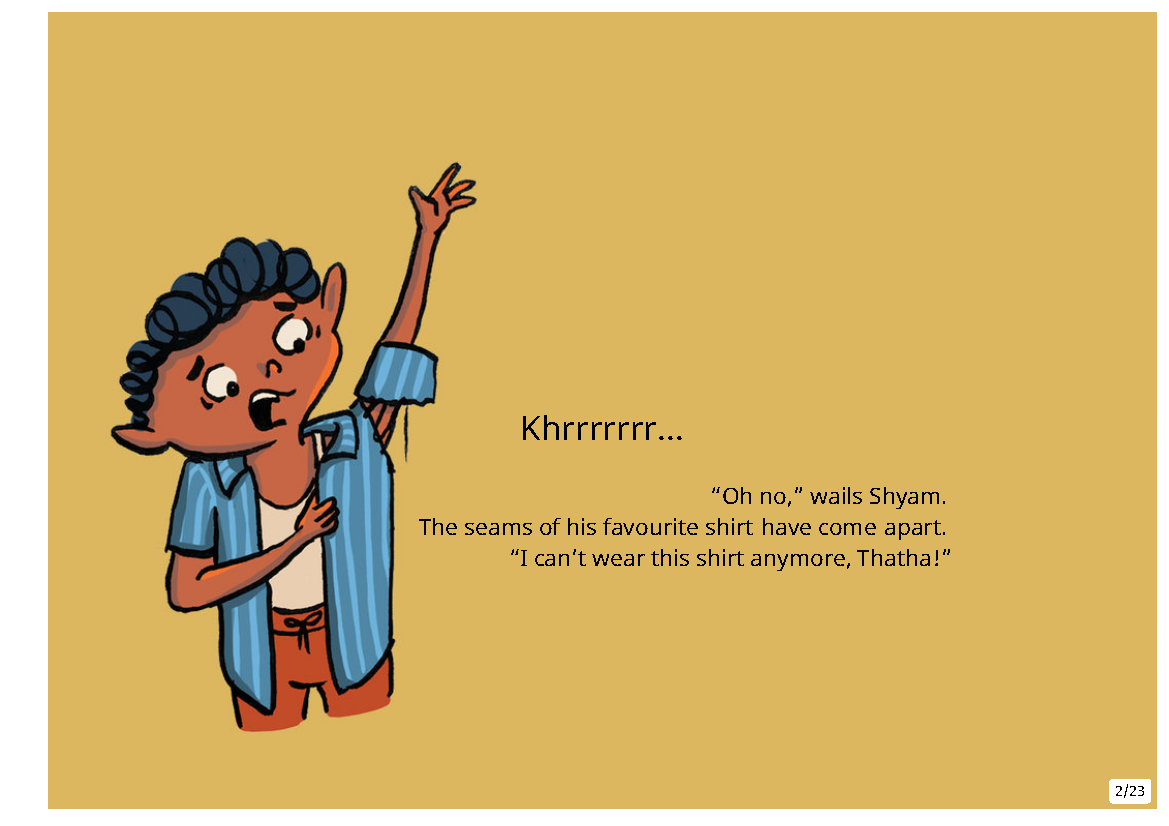
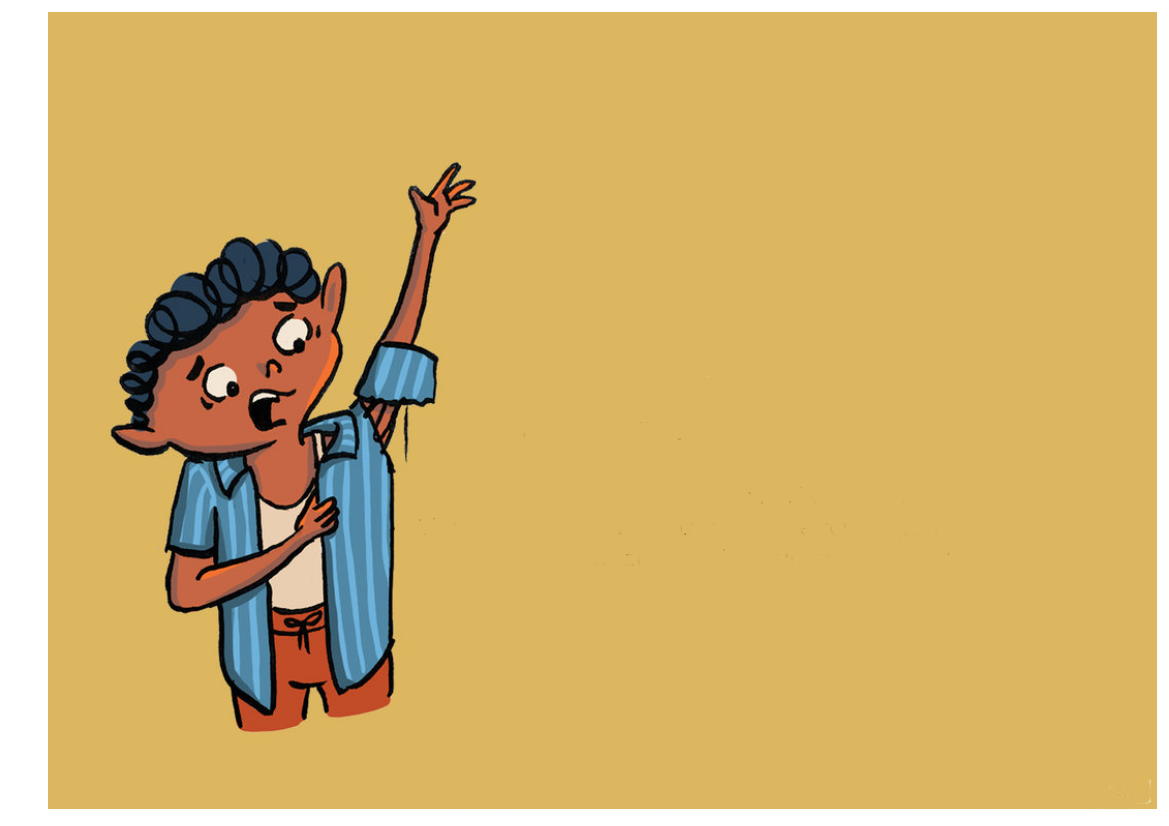
Fetch function for individual page

diff --git a/js-stitch-in-time-front/src/index.js b/js-stitch-in-time-front/src/index.js
@@ -1,64 +1,63 @@
+// sets user for session
 let currentUser = "";
 
+//functions to populate story text on page
 function topDivText(text) {
   document.querySelector("#top-caption").innerHTML = `<p>${text}</p>`;
 };
 
+function bottomDivText(text) {
+  document.querySelector("#bottom-caption").innerHTML = `<p>${text}</p>`;
+};
+
+
 document.addEventListener('DOMContentLoaded', (event) => {
+  const containerTag = document.querySelector('#main-container')
+  const divTag = document.createElement("DIV");
+  let imgTag = document.querySelector('.center-fit')
+  containerTag.appendChild(divTag)
+  divTag.className = 'greeting'
+  divTag.innerHTML = `<p>Welcome</p>
+  <input type="text">Hi! What's your name?</input>
+  <input id="start-btn" type="button" value="Let's Read!"></input>`
 
-  PageAdapter.getAll()
-    .then((pages) => {
-      pages.forEach((pageInfo) => {
-        debugger
-        const newPage = new Page(pageInfo);
+  document.querySelector('#start-btn').addEventListener('click', (e) => {
+    event.preventDefault();
+    if (e.target.previousElementSibling.value != "") {
+      // set username = value
+      fetch('http://localhost:3000/users', {
+        method: "POST",
+        headers: {
+          "Content-Type": "application/json",
+          Accept: "application/json"
+        },
+        body: JSON.stringify({
+          "name": `${e.target.previousElementSibling.value}`,
+          "progress": 0
+        })
+      }).then((response) => {
+        return response.json();
+      }).then((user) => {
+        currentUser = user;
+        document.querySelector('.greeting').remove();
+
+        PageAdapter.getPage(11)
+          .then((pageInfo) => {
+            let currentPage = new Page(pageInfo);
+            document.querySelector('.center-fit').src = currentPage.imageUrl;
+            document.querySelector('.center-fit').dataset.id = `${currentPage.id}`
+            setTimeout(function() {topDivText(currentPage.topText)}, 2000);
+            setTimeout(function() {bottomDivText(currentPage.bottomText)}, 4000);
+          })
+
+        let nxtbtn = document.createElement('INPUT');
+        nxtbtn.className = "next-button";
+        nxtbtn.src = "./images/recycle-btn.png"
+        nxtbtn.type = "image";
+        document.querySelector('#main-container').appendChild(nxtbtn);
       })
-
-    });
-
-
-  // const containerTag = document.querySelector('#main-container')
-  // const divTag = document.createElement("DIV");
-  // let imgTag = document.querySelector('.center-fit')
-  // containerTag.appendChild(divTag)
-  // divTag.className = 'greeting'
-  // divTag.innerHTML = `<p>Welcome</p>
-  // <input type="text">Hi! What's your name?</input>
-  // <input id="start-btn" type="button" value="Let's Read!"></input>`
-  //
-  // document.querySelector('#start-btn').addEventListener('click', (e) => {
-  //   event.preventDefault();
-  //   if (e.target.previousElementSibling.value != "") {
-  //     // set username = value
-  //     imgTag.src = "./images/a-stitch-in-time_2.png"
-  //     fetch('http://localhost:3000/users', {
-  //       method: "POST",
-  //       headers: {
-  //         "Content-Type": "application/json",
-  //         Accept: "application/json"
-  //       },
-  //       body: JSON.stringify({
-  //         "name": `${e.target.previousElementSibling.value}`,
-  //         "progress": 0
-  //       })
-  //     }).then((response) => {
-  //       return response.json();
-  //     }).then((user) => {
-  //       currentUser = user;
-  //       document.querySelector('.greeting').remove();
-  //       window.setTimeout(topDivText("Khrrrrrr....."), 1000 );
-  //       // let topCaption = document.querySelector("#top-caption");
-  //       let bottomCaption = document.querySelector("#bottom-caption");
-  //
-  //       // topCaption.innerHTML = `<p>Khrrrrrr...</p>`;
-  //       bottomCaption.innerHTML = `<p>"Oh no," wails Shyam. The seams of his favorite shirt have come apart</p>`;
-  //       let nxtbtn = document.createElement('INPUT');
-  //       nxtbtn.className = "next-button";
-  //       nxtbtn.src = "./images/recycle-btn.png"
-  //       nxtbtn.type = "image";
-  //       document.querySelector('#main-container').appendChild(nxtbtn);
-  //     })
-  //   }
-  // })
+    }
+  })
 
 
 }) // end of DOMContentLoaded

diff --git a/js-stitch-in-time-front/index.html b/js-stitch-in-time-front/index.html
@@ -10,7 +10,7 @@
   <body>
     <div id="main-wrapper">
       <div id="main-container" class="imgbox">
-          <img class="center-fit" src='./images/cover.png'>
+          <img class="center-fit" src='./images/cover.png' data-id="1">
           <div id="top-caption"></div>
         <div id="bottom-caption"></div>
       </div>

diff --git a/js-stitch-in-time-front/src/pageAdapter.js b/js-stitch-in-time-front/src/pageAdapter.js
@@ -2,7 +2,12 @@ class PageAdapter {
 
   static getAll() {
     return fetch('http://localhost:3000/pages')
-      .then(res => res.json())
-  }
+      .then(res => res.json());
+  };
+
+  static getPage(id) {
+    return fetch(`http://localhost:3000/pages/${id}`)
+      .then(res => res.json());
+  };
 
 };
